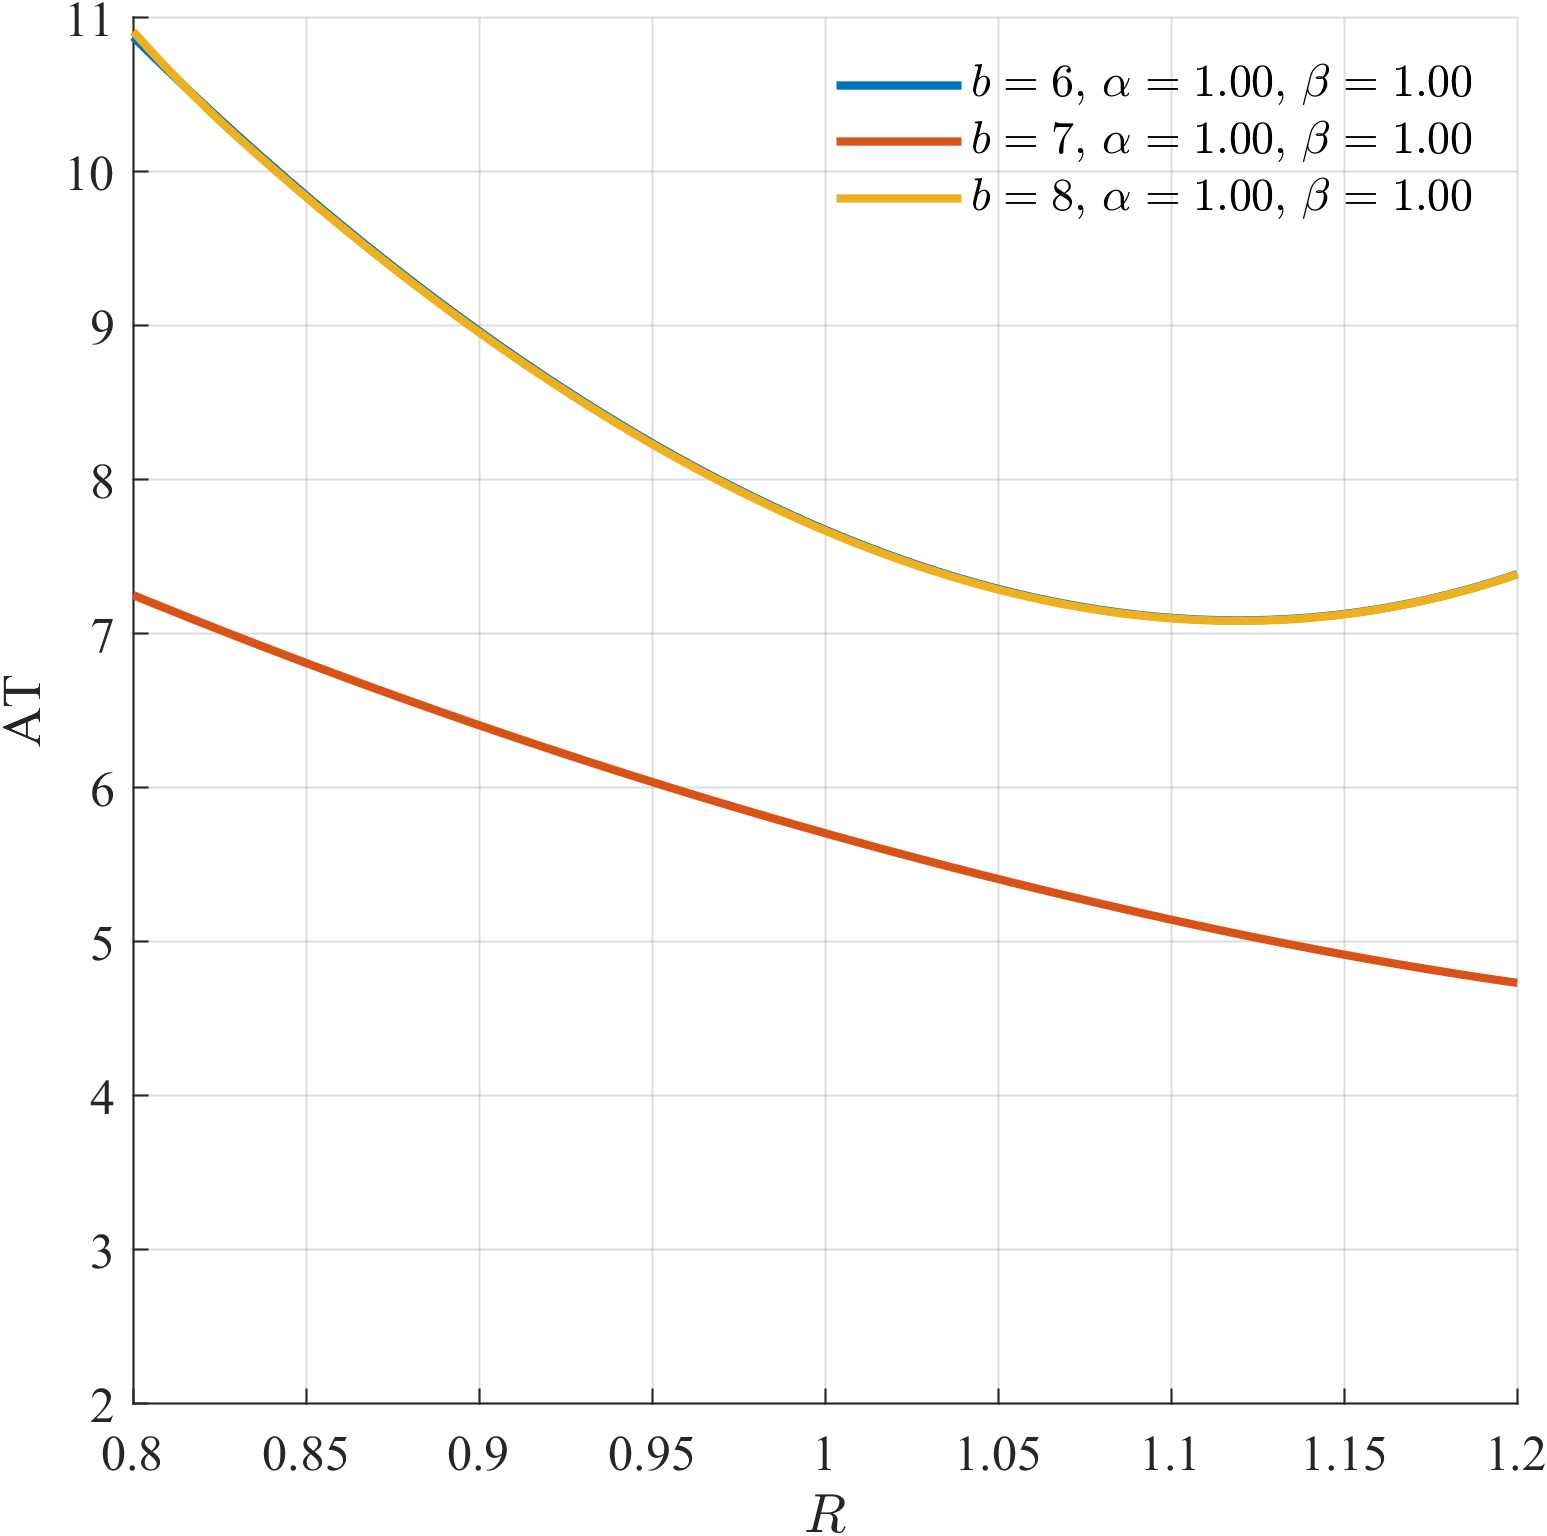
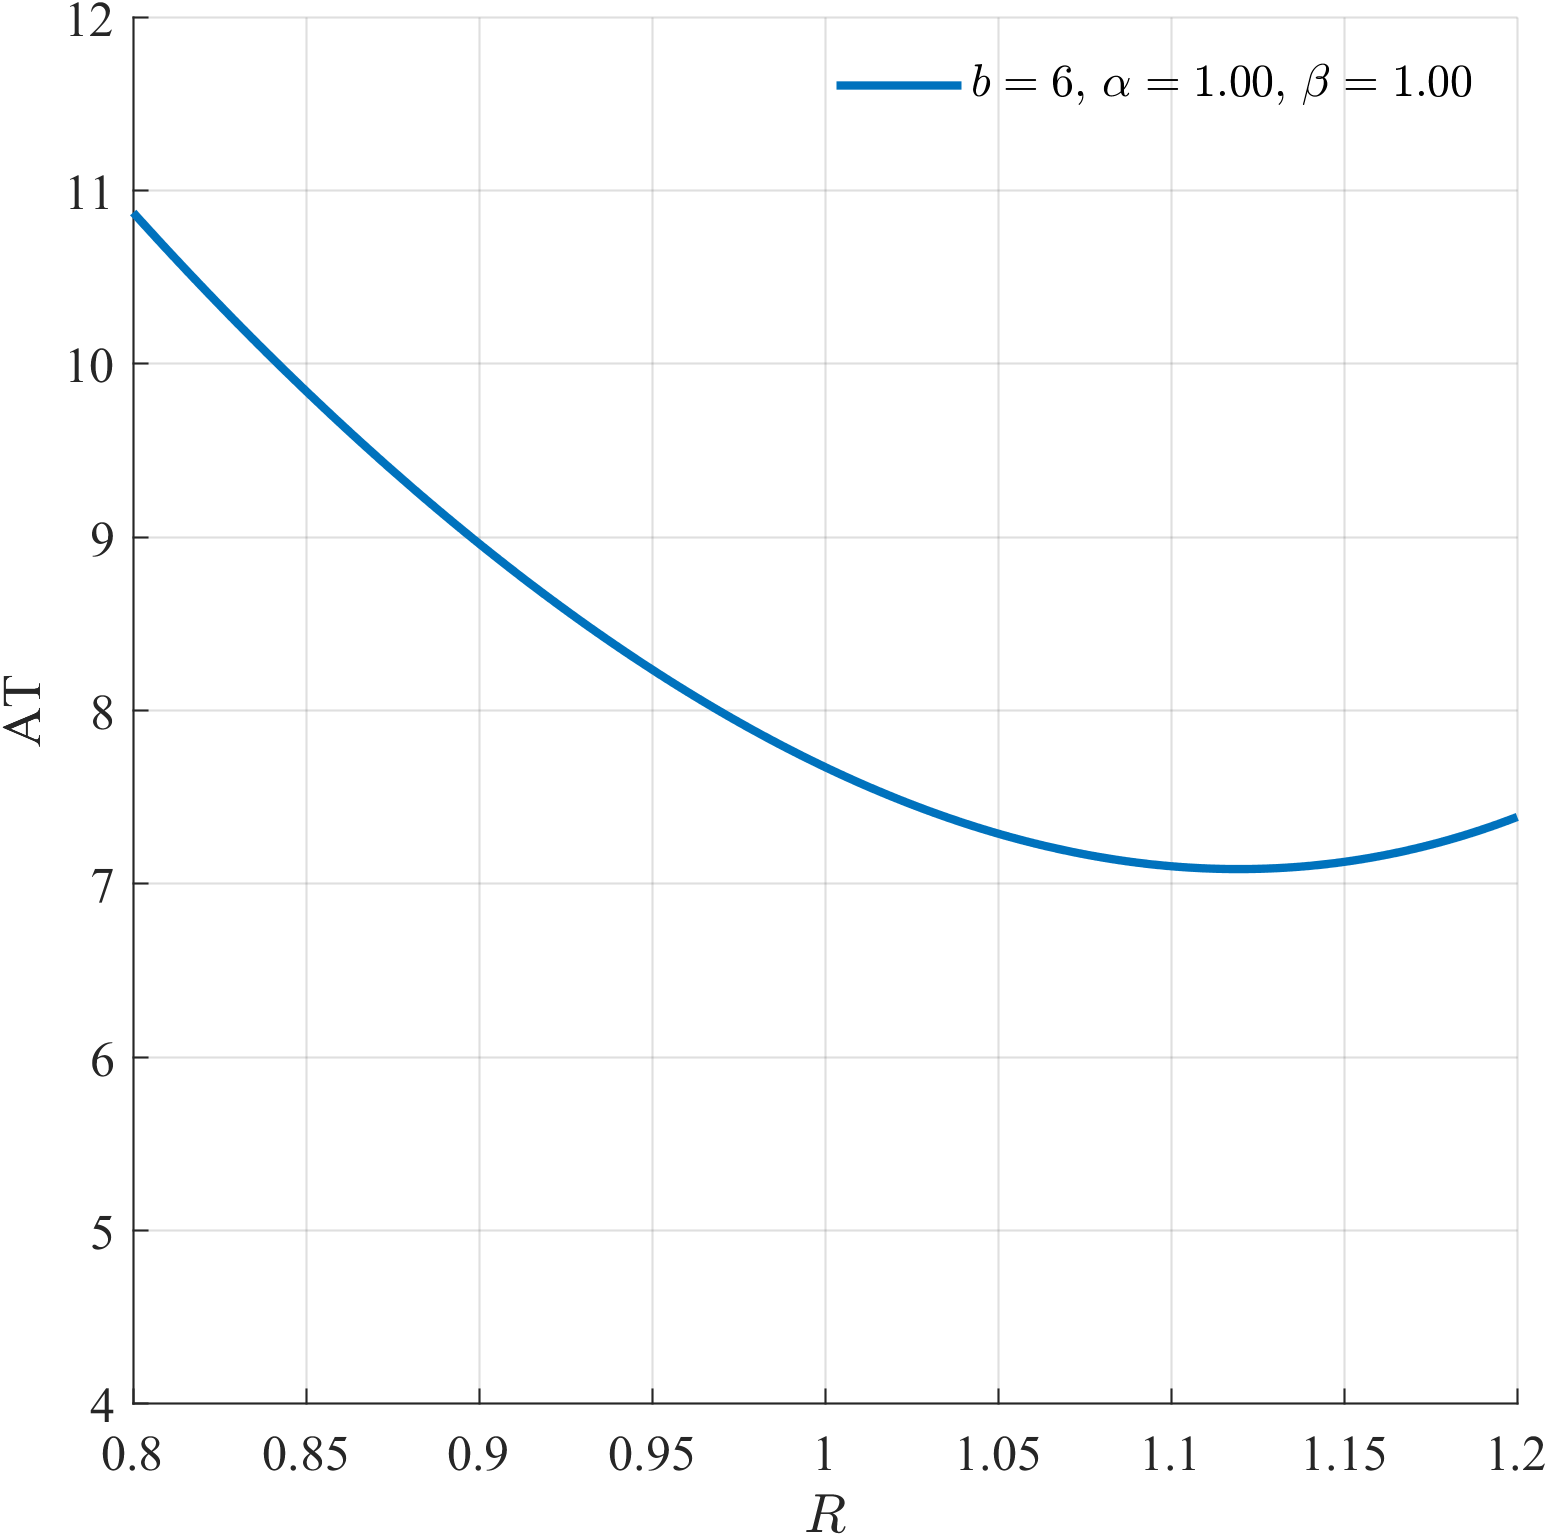
Switch to Quintic plots and update plot settings
Set Main__Plot.m to use the Quintic configuration (n_degree = 5) and simplify the parameter list to a single b=6 distorted/undistorted case (other degrees commented out). Updated plot_groups to use single indices for distorted/undistorted, changed legend placement for the delta group to 'southwest', and adjusted y-axis limits (ARA/RRA to [0,5], AP/RP/AT/RT to [4,12]) for clearer visualization. Regenerated the group plot PNGs in Output - Plot (Quintic) accordingly.

diff --git a/12  MLE - Cubic B-Spline with Distortion and Monotonicity (full range)/Main__Plot.m b/12  MLE - Cubic B-Spline with Distortion and Monotonicity (full range)/Main__Plot.m
@@ -3,15 +3,15 @@ clear; clc;
 Path_MainFolder  = 'D:\Google\我的雲端硬碟\學術｜研究與論文\論文著作\MLE Pricing Kernel';
 Path_Data        = 'D:\Google\我的雲端硬碟\學術｜研究與論文\論文著作\CDI Method';
 
-Path_Output      = fullfile(Path_MainFolder, 'Code', '12  Output');
-Path_Output_Plot = fullfile(Path_MainFolder, 'Code', '12  Output - Plot (Cubic)');
+% Path_Output      = fullfile(Path_MainFolder, 'Code', '12  Output');
+% Path_Output_Plot = fullfile(Path_MainFolder, 'Code', '12  Output - Plot (Cubic)');
 % Path_Output_Plot = fullfile(Path_MainFolder, 'Code', '12  Output - Plot');
 
 % Path_Output      = fullfile(Path_MainFolder, 'Code', '12  Output - Quartic');
 % Path_Output_Plot = fullfile(Path_MainFolder, 'Code', '12  Output - Plot (Quartic)');
 
-% Path_Output      = fullfile(Path_MainFolder, 'Code', '12  Output - Quintic');
-% Path_Output_Plot = fullfile(Path_MainFolder, 'Code', '12  Output - Plot (Quintic)');
+Path_Output      = fullfile(Path_MainFolder, 'Code', '12  Output - Quintic');
+Path_Output_Plot = fullfile(Path_MainFolder, 'Code', '12  Output - Plot (Quintic)');
 
 % Path_Output      = fullfile(Path_MainFolder, 'Code', '12  Output - Sextic');
 % Path_Output_Plot = fullfile(Path_MainFolder, 'Code', '12  Output - Plot (Sextic)');
@@ -102,21 +102,21 @@ set(groot, 'defaultLineMarkerFaceColor','auto');
 %     struct('b',9,'alpha',1.00,'beta',1.00)
 % };
 
-% Cubic
-n_degree = 3;
-param_list = {
-    % --- Distorted cases ---
-    struct('b', 4, 'alpha', 0.95, 'beta', 0.90)
-    struct('b', 5, 'alpha', 1.00, 'beta', 0.90)
-    struct('b', 6, 'alpha', 1.00, 'beta', 0.90)
+% % Cubic
+% n_degree = 3;
+% param_list = {
+%     % --- Distorted cases ---
+%     struct('b', 4, 'alpha', 0.95, 'beta', 0.90)
+%     struct('b', 5, 'alpha', 1.00, 'beta', 0.90)
+%     struct('b', 6, 'alpha', 1.00, 'beta', 0.90)
+% 
+%     % --- Undistorted cases ---
+%     struct('b', 4, 'alpha', 1.00, 'beta', 1.00)
+%     struct('b', 5, 'alpha', 1.00, 'beta', 1.00)
+%     struct('b', 6, 'alpha', 1.00, 'beta', 1.00)
+% };
 
-    % --- Undistorted cases ---
-    struct('b', 4, 'alpha', 1.00, 'beta', 1.00)
-    struct('b', 5, 'alpha', 1.00, 'beta', 1.00)
-    struct('b', 6, 'alpha', 1.00, 'beta', 1.00)
-};
-
-% Quartic
+% % Quartic
 % n_degree = 4;
 % param_list = {
 %     % --- Distorted cases ---
@@ -131,20 +131,20 @@ param_list = {
 % };
 
 % Quintic
-% n_degree = 5;
-% param_list = {
-%     % --- Distorted cases ---
-%     struct('b', 6, 'alpha', 1.00, 'beta', 0.90)
-%     struct('b', 7, 'alpha', 1.00, 'beta', 0.90)
-%     struct('b', 8, 'alpha', 1.00, 'beta', 0.90)
-% 
-%     % --- Undistorted cases ---
-%     struct('b', 6, 'alpha', 1.00, 'beta', 1.00)
-%     struct('b', 7, 'alpha', 1.00, 'beta', 1.00)
-%     struct('b', 8, 'alpha', 1.00, 'beta', 1.00)
-% };
+n_degree = 5;
+param_list = {
+    % --- Distorted cases ---
+    struct('b', 6, 'alpha', 1.00, 'beta', 0.90)
+    % struct('b', 7, 'alpha', 1.00, 'beta', 0.90)
+    % struct('b', 8, 'alpha', 1.00, 'beta', 0.90)
 
-% Quintic
+    % --- Undistorted cases ---
+    struct('b', 6, 'alpha', 1.00, 'beta', 1.00)
+    % struct('b', 7, 'alpha', 1.00, 'beta', 1.00)
+    % struct('b', 8, 'alpha', 1.00, 'beta', 1.00)
+};
+
+% % Sextic
 % n_degree = 6;
 % param_list = {
 %     % --- Distorted cases ---
@@ -162,8 +162,8 @@ param_list = {
 
 % 設定繪圖群組：前半為 Distorted，後半組為 Undistorted
 plot_groups = {
-    struct('indices', 1:3, 'suffix', 'distorted',   'title', 'Distorted')
-    struct('indices', 4:6, 'suffix', 'undistorted', 'title', 'Undistorted')
+    struct('indices', 1, 'suffix', 'distorted',   'title', 'Distorted')
+    struct('indices', 2, 'suffix', 'undistorted', 'title', 'Undistorted')
 };
 
 k_order = n_degree + 1;
@@ -303,7 +303,7 @@ for g = 1:numel(plot_groups)
     xlim([min(date_objs), max(date_objs)]);
     % ylim([-0.09 0.03]);    
     xtickformat('yyyy');
-    legend('show', 'Location', 'best', 'Box', 'off', 'FontSize', 11);
+    legend('show', 'Location', 'southwest', 'Box', 'off', 'FontSize', 11);
     
     out_name = sprintf('plot_delta_Group_%s.png', group.suffix);
     exportgraphics(fig, fullfile(Path_Output_Plot, out_name), 'Resolution', 300);
@@ -411,9 +411,9 @@ for m = 1:length(measures)
         
         % 設定 Y 軸範圍 (可依據實際結果微調)
         switch measure_key
-            case 'ARA', ylim([0, 4]);   case 'RRA', ylim([0, 4]);
-            case 'AP',  ylim([0, 12]);  case 'RP',  ylim([0, 12]);
-            case 'AT',  ylim([0, 12]);  case 'RT',  ylim([0, 12]);
+            case 'ARA', ylim([0, 5]);   case 'RRA', ylim([0, 5]);
+            case 'AP',  ylim([4, 12]);  case 'RP',  ylim([4, 12]);
+            case 'AT',  ylim([4, 12]);  case 'RT',  ylim([4, 12]);
         end
         
         legend('show', 'Location', 'northeast', 'Box', 'off', 'FontSize', 11);
